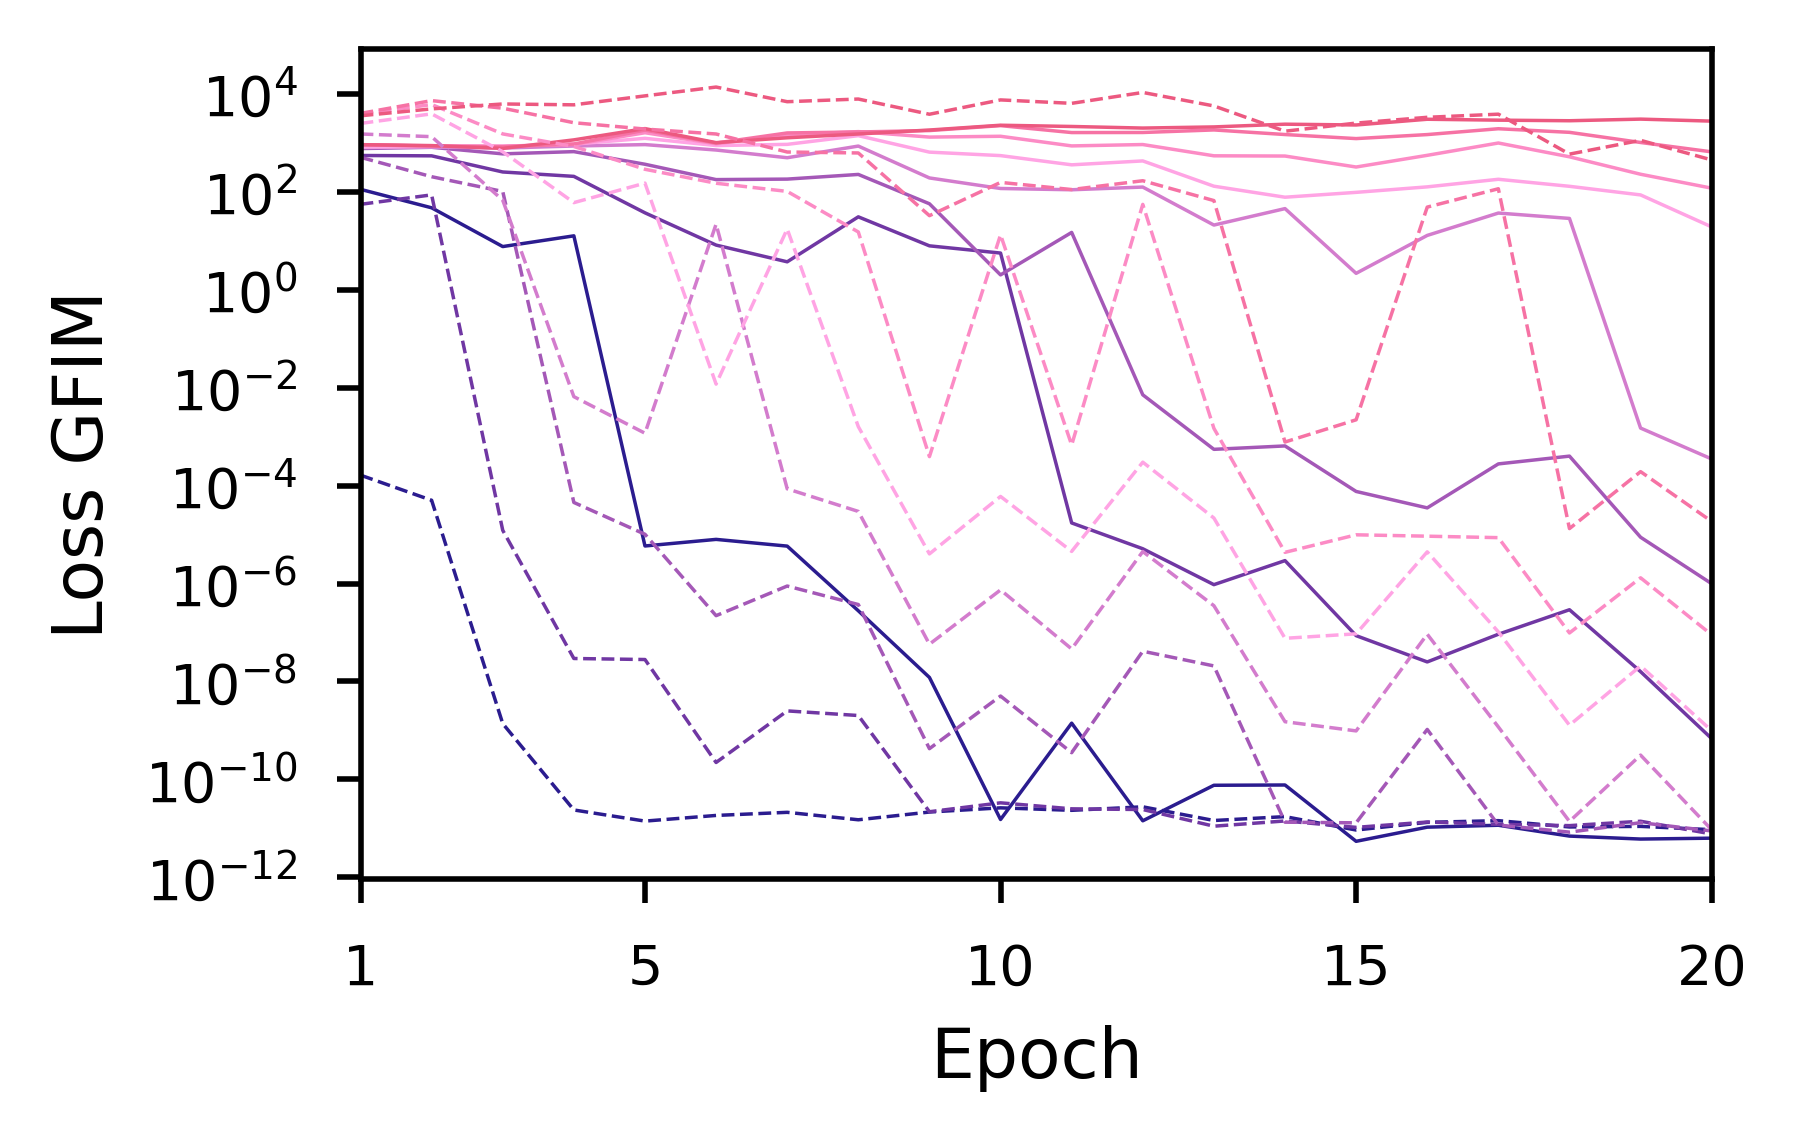
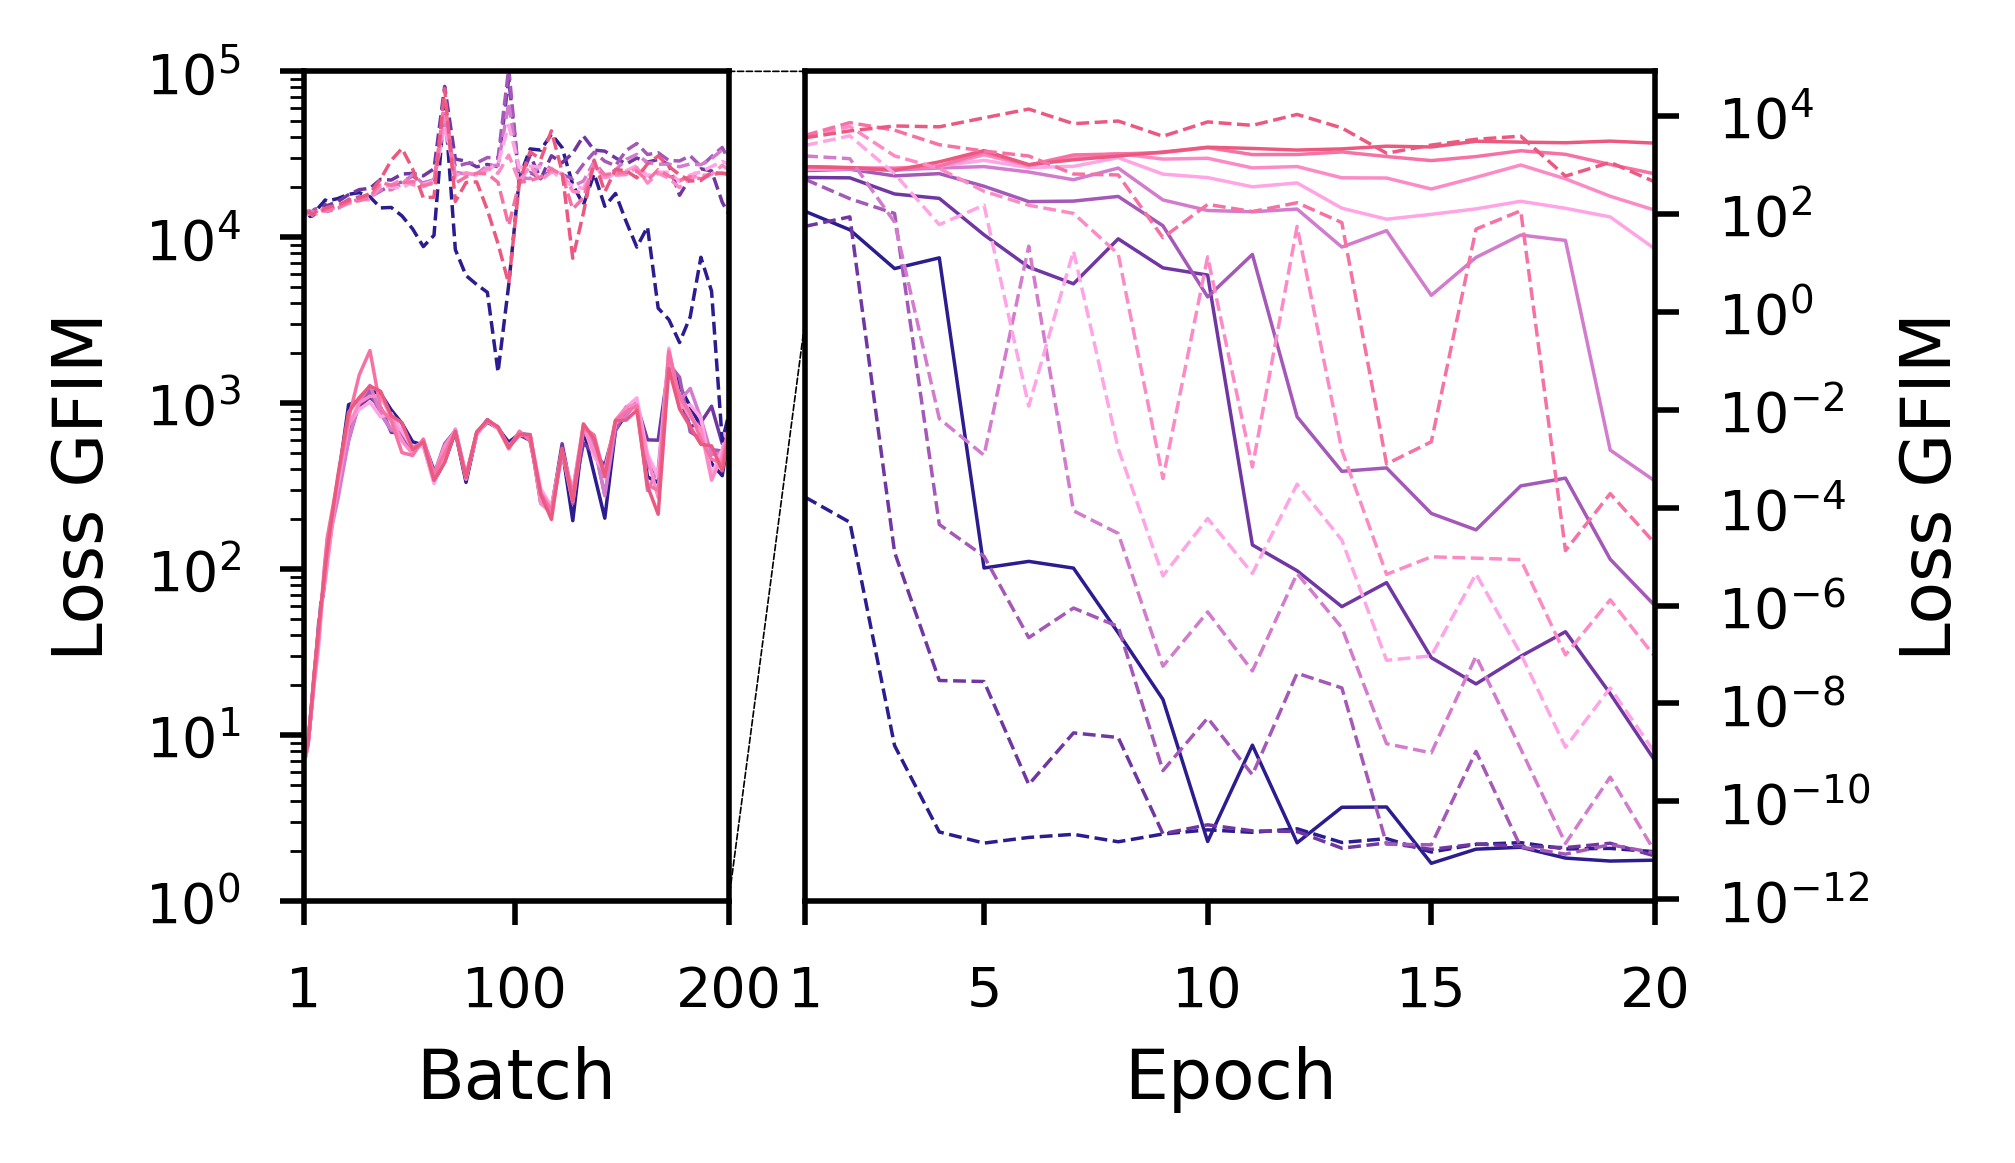
new comb HAM

diff --git a/graphs.py b/graphs.py
@@ -484,7 +484,43 @@ def make_HAMcom():
     FIM1step = pd.read_csv('HAM_pre.csv', sep=',')
     FIM1step['Step'] = FIM1step['Step']+1
 
-    fig, ax1 = plt.subplots(1,1,figsize=set_size(252))
+    fig, (ax1,ax2) = plt.subplots(1,2,figsize=set_size(252),width_ratios=[1, 2],gridspec_kw={'wspace': 0.12})
+
+    sea.lineplot(ax=ax2,x="Step",y="0",data=FIMstep,label="0 (Low)",linewidth=linsize,color=cols[0])
+    sea.lineplot(ax=ax2,x="Step",y="1",data=FIMstep,label="1",linewidth=linsize,color=cols[1])
+    sea.lineplot(ax=ax2,x="Step",y="2",data=FIMstep,label="2",linewidth=linsize,color=cols[2])
+    sea.lineplot(ax=ax2,x="Step",y="3",data=FIMstep,label="3",linewidth=linsize,color=cols[3])
+    sea.lineplot(ax=ax2,x="Step",y="4",data=FIMstep,label="4",linewidth=linsize,color=cols[4])
+    sea.lineplot(ax=ax2,x="Step",y="5",data=FIMstep,label="5",linewidth=linsize,color=cols[5])
+    sea.lineplot(ax=ax2,x="Step",y="6",data=FIMstep,label="6",linewidth=linsize,color=cols[6])
+    sea.lineplot(ax=ax2,x="Step",y="7",data=FIMstep,label="7 (High)",linewidth=linsize,color=cols[7])
+
+    sea.lineplot(ax=ax2,x="Step",y="0",data=FIM1step,label="0 (Low)",linewidth=linsize,color=cols[0],linestyle='--')
+    sea.lineplot(ax=ax2,x="Step",y="1",data=FIM1step,label="1",linewidth=linsize,color=cols[1],linestyle='--')
+    sea.lineplot(ax=ax2,x="Step",y="2",data=FIM1step,label="2",linewidth=linsize,color=cols[2], linestyle='--')
+    sea.lineplot(ax=ax2,x="Step",y="3",data=FIM1step,label="3",linewidth=linsize,color=cols[3],linestyle='--')
+    sea.lineplot(ax=ax2,x="Step",y="4",data=FIM1step,label="4",linewidth=linsize,color=cols[4], linestyle='--')
+    sea.lineplot(ax=ax2,x="Step",y="5",data=FIM1step,label="5",linewidth=linsize,color=cols[5], linestyle='--')
+    sea.lineplot(ax=ax2,x="Step",y="6",data=FIM1step,label="6",linewidth=linsize,color=cols[6], linestyle='--')
+    sea.lineplot(ax=ax2,x="Step",y="7",data=FIM1step,label="7 (High)",linewidth=linsize,color=cols[7], linestyle='--')
+
+    ax2.set_xlabel("Epoch")
+    ax2.set_xlim([1,20])
+    ax2.set_xticks([1,5,10,15,20])
+    
+    ax2.set_ylabel("Loss GFIM")
+    ax2.set_yscale('log')
+    ax2.set_yticks([1e-12,1e-10,1e-8,1e-6,1e-4,1e-2,1e0,1e2,1e4])
+    ax2.get_legend().remove()
+
+    ax2.yaxis.set_label_position("right")
+    ax2.yaxis.tick_right()
+
+    FIMstep = pd.read_csv('HAM_step.csv', sep=',')
+    FIMstep['Step'] = FIMstep['Step']+1
+
+    FIM1step = pd.read_csv('HAM_step_pre.csv', sep=',')
+    FIM1step['Step'] = FIM1step['Step']+1
 
     sea.lineplot(ax=ax1,x="Step",y="0",data=FIMstep,label="0 (Low)",linewidth=linsize,color=cols[0])
     sea.lineplot(ax=ax1,x="Step",y="1",data=FIMstep,label="1",linewidth=linsize,color=cols[1])
@@ -504,21 +540,37 @@ def make_HAMcom():
     sea.lineplot(ax=ax1,x="Step",y="6",data=FIM1step,label="6",linewidth=linsize,color=cols[6], linestyle='--')
     sea.lineplot(ax=ax1,x="Step",y="7",data=FIM1step,label="7 (High)",linewidth=linsize,color=cols[7], linestyle='--')
 
-    ax1.set_xlabel("Epoch")
-    ax1.set_xlim([1,20])
-    ax1.set_xticks([1,5,10,15,20])
-    
+    ax1.set_xlabel("Batch")
+    ax1.set_xlim([1,200])
+    ax1.set_xticks([1,100,200])
     ax1.set_ylabel("Loss GFIM")
     ax1.set_yscale('log')
-    ax1.set_yticks([1e-12,1e-10,1e-8,1e-6,1e-4,1e-2,1e0,1e2,1e4])
+    ax1.set_ylim([1e0,1e5])
     ax1.get_legend().remove()
 
+    con1 = ConnectionPatch(xyA=(1,1),
+                        xyB=(0,1),
+                        coordsA="axes fraction",
+                        coordsB="axes fraction",
+                        axesA=ax1,
+                        axesB=ax2,
+                        color="black",
+                        linestyle="--",)
+    con2 = ConnectionPatch(xyA=(1,0),
+                        xyB=(0,0.7),
+                        coordsA="axes fraction",
+                        coordsB="axes fraction",
+                        axesA=ax1,
+                        axesB=ax2,
+                        color="black",
+                        linestyle="--",)
+    ax1.add_artist(con1)
+    ax1.add_artist(con2)
+    
+
+
+
     fig.savefig("Pics/HAM1.png", bbox_inches='tight', dpi=500)
-
-    
-
-
-    
 
 def make_VIT():
     #001
@@ -581,11 +633,6 @@ def make_VIT():
 
     fig.savefig("Pics/VIT001.png", bbox_inches='tight', dpi=500)
 
-
-
-
-
-    
 def make_VIT0001():
         #0001--------------------------------------------------------------------------------
 
@@ -666,8 +713,6 @@ def make_VIT0001():
     ax1.add_artist(con2)
 
     fig.savefig("Pics/VIT0001.png", bbox_inches='tight', dpi=500)
-
-
 
 def make_VIT00001():
 
